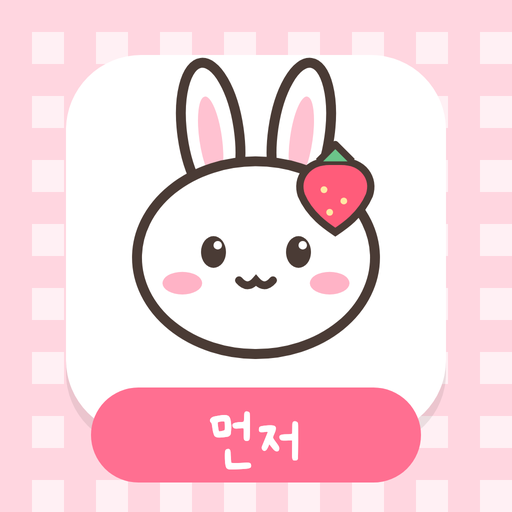
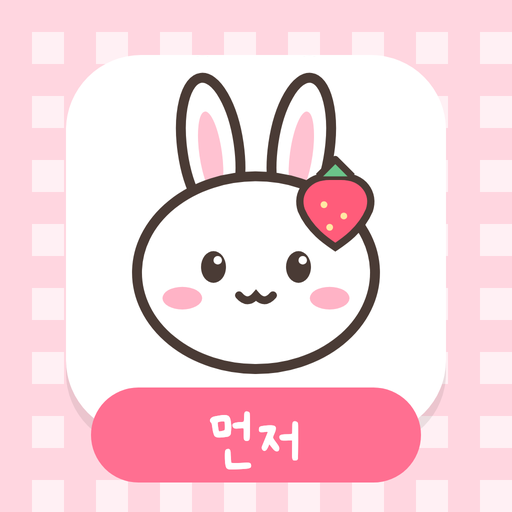
관리자 허브: 🍎 앱스토어에 나온 우리 앱 3개 (아이아이노트 · 교무실 타이쿤 · 먼저 플래너) + 먼저 플래너 아이콘 토쌤 15px 아래로
- 홈 '📱 아이아이노트 앱 이용 현황' 위에 앱마다 아이콘 · 출시일(며칠째) · 한 줄 소개 · App Store 배지 + 링크 복사(아이아이노트는 Google Play 도) · 앱스토어 주소(누르면 복사) · 웹으로 열기 · 관리자
  - 아이아이노트 id6831842667 (11/8), 교무실 타이쿤 id6834141029 (11/15), 먼저 플래너 id6835064683 (11/15) — 새 앱은 IOS_APPS 에 한 줄
  - 타이쿤 아이콘은 앱스토어 그림 그대로 admin/app-tycoon.jpg
- 먼저 플래너 아이콘(first/icon-512 · 180): 귀가 카드 윗변에 붙어 있던 토쌤을 15px 내려 위 17px · 아래 18px 로 (웹 · 홈 화면 아이콘, 앱스토어 아이콘은 앱을 새로 올려야 바뀜)

Changed region(s): [[0.25, 0.0938, 0.75, 0.75]]

diff --git a/admin/index.html b/admin/index.html
@@ -332,6 +332,13 @@ body.editing .del{display:inline-block}
 .store-b{display:flex;align-items:center;gap:10px;margin:2px 0 12px}
 .store-b a{line-height:0}
 .store-b img{height:40px;width:auto;display:block}
+/* 🍎 앱스토어에 나온 우리 앱 */
+.ios-app .ia-top{display:flex;align-items:center;gap:12px;margin-bottom:8px}
+.ios-app .ia-top img{width:56px;height:56px;border-radius:13px;box-shadow:0 2px 8px rgba(0,0,0,.15);flex:none}
+.ios-app .ia-top b{display:block;font-size:1.05rem}
+.ios-app .ia-top small{display:block;opacity:.7;font-size:.78rem;margin-top:2px}
+.ios-app .ia-line{margin:0 0 12px;font-size:.88rem;opacity:.85;line-height:1.5}
+.ios-app .ia-url{display:block;width:100%;text-align:left;font:12px ui-monospace,Consolas,monospace;padding:7px 10px;border-radius:8px;border:1px dashed rgba(127,127,127,.45);background:transparent;color:inherit;cursor:copy;word-break:break-all;margin-bottom:10px}
 </style>
 </head>
 <body>
@@ -373,6 +380,8 @@ body.editing .del{display:inline-block}
     <div class="insights" id="homeInsights"></div>
     <h2 class="sec-h">📈 방문 흐름 <small>그래프에 마우스를 올리면 숫자가 보여요</small></h2>
     <div class="panels" id="homeCharts"></div>
+    <h2 class="sec-h">🍎 앱스토어에 나온 우리 앱 <small>아이폰 · 아이패드 · 배지를 누르면 스토어, [링크 복사]로 알리기</small></h2>
+    <div class="panels" id="homeApps"></div>
     <h2 class="sec-h">📱 아이아이노트 앱 이용 현황 <small>플레이스토어 · 앱스토어 · 앱 안 이용 · 매일 아침 9시 반에 모아요</small></h2>
     <div class="panels" id="homeIi"></div>
     <h2 class="sec-h">🏯 메타버스 4곳 · 🏫 교무실 타이쿤 <small>지금 접속 · 동시접속 최고 · 머문 시간 · 가입</small></h2>
@@ -672,7 +681,30 @@ async function loadIiStats(refresh){
 // 🏷 스토어 공식 배지 (2026-11-11): 누르면 스토어 페이지, 옆 단추로 주소 복사
 const II_PLAY = 'https://play.google.com/store/apps/details?id=kr.co.iinote.app', II_APPSTORE = 'https://apps.apple.com/kr/app/id6831842667';
 const storeBadge = (url, img, alt) => `<div class="store-b"><a href="${url}" target="_blank" rel="noopener"><img src="${img}" alt="${alt}"></a><button type="button" class="btn" data-copyurl="${url}">링크 복사</button></div>`;
-document.addEventListener('click', e => { const b = e.target.closest('[data-copyurl]'); if (!b) return; navigator.clipboard.writeText(b.dataset.copyurl).then(() => { b.textContent = '복사했어요'; setTimeout(() => { b.textContent = '링크 복사'; }, 1500); }); });
+document.addEventListener('click', e => { const b = e.target.closest('[data-copyurl]'); if (!b) return; const was = b.textContent; navigator.clipboard.writeText(b.dataset.copyurl).then(() => { b.textContent = '복사했어요'; setTimeout(() => { b.textContent = was; }, 1500); }); });
+/* 🍎 앱스토어에 나온 우리 앱 (2026-11-16): 새 앱이 나오면 여기 한 줄만 더해요
+   icon = 이 폴더의 그림 (아이아이노트는 앱스토어 그대로의 크림색 아이콘) */
+const IOS_APPS = [
+  { name:'아이아이노트', icon:'iinote-app-icon.png', date:'2026-11-08', genre:'라이프스타일', id:'6831842667', play:II_PLAY,
+    line:'온 가족이 함께 쓰고 서로 읽어 주는 일기장', web:'https://iinote.co.kr', admin:II_ADMIN },
+  { name:'교무실 타이쿤', icon:'app-tycoon.jpg', date:'2026-11-15', genre:'교육', id:'6834141029',
+    line:'선생님의 하루를 게임처럼 보여 주는 시간표', web:'https://moontr.site/tycoon/', admin:'/tycoon/?admin' },
+  { name:'먼저 플래너', icon:'/first/icon-512.png', date:'2026-11-15', genre:'교육', id:'6835064683',
+    line:'약한 과목을 먼저, 작게 계획하고 실천하는 공부 플래너', web:'https://moontr.site/first/', admin:'/first/?admin' }
+];
+const iosUrl = a => `https://apps.apple.com/kr/app/id${a.id}`;
+function renderIosApps(){
+  const box = $('#homeApps'); if (!box) return;
+  const days = d => Math.max(0, Math.round((new Date(ymd(new Date()) + 'T00:00:00') - new Date(d + 'T00:00:00')) / 864e5));
+  box.innerHTML = IOS_APPS.map(a => `<div class="panel third mv-card ios-app">
+    <div class="ia-top"><img src="${esc(a.icon)}" alt=""><div><b>${esc(a.name)}</b><small>${a.date.slice(5).replace('-', '월 ')}일 출시 · ${days(a.date) ? `${days(a.date)}일째` : '오늘 출시 🎉'} · 무료 · ${esc(a.genre)}</small></div></div>
+    <p class="ia-line">${esc(a.line)}</p>
+    ${storeBadge(iosUrl(a), 'badge-appstore.svg', 'App Store에서 다운로드')}
+    ${a.play ? storeBadge(a.play, 'badge-play.png', 'Google Play에서 다운로드') : ''}
+    <button type="button" class="ia-url" data-copyurl="${esc(iosUrl(a))}" title="눌러서 복사">${esc(iosUrl(a))}</button>
+    <div class="lnk"><a class="btn" href="${esc(a.web)}" target="_blank" rel="noopener">웹으로 열기 ↗</a><a class="btn" href="${esc(a.admin)}" target="_blank" rel="noopener">관리자 ↗</a></div>
+  </div>`).join('');
+}
 function renderIiStats(){
   const box = $('#homeIi'); if (!box) return;
   if (!iiStats){ box.innerHTML = '<p class="msg">불러오는 중...</p>'; loadIiStats(); return; }
@@ -1114,6 +1146,7 @@ async function renderHome(force){
   renderInsights(series, all, relays);
   renderCharts(series, all, relays);
   renderMeta(relays);
+  renderIosApps();
   renderIiStats();
   /* 카드는 오늘 방문이 많은 순서로 (같으면 누적이 많은 순, 기록을 못 읽은 카드는 맨 뒤) */
   const score = ({ a }) => { const d = homeData[a.admin]; return d && !d.error ? d : { today:-1, total:-1 }; };
